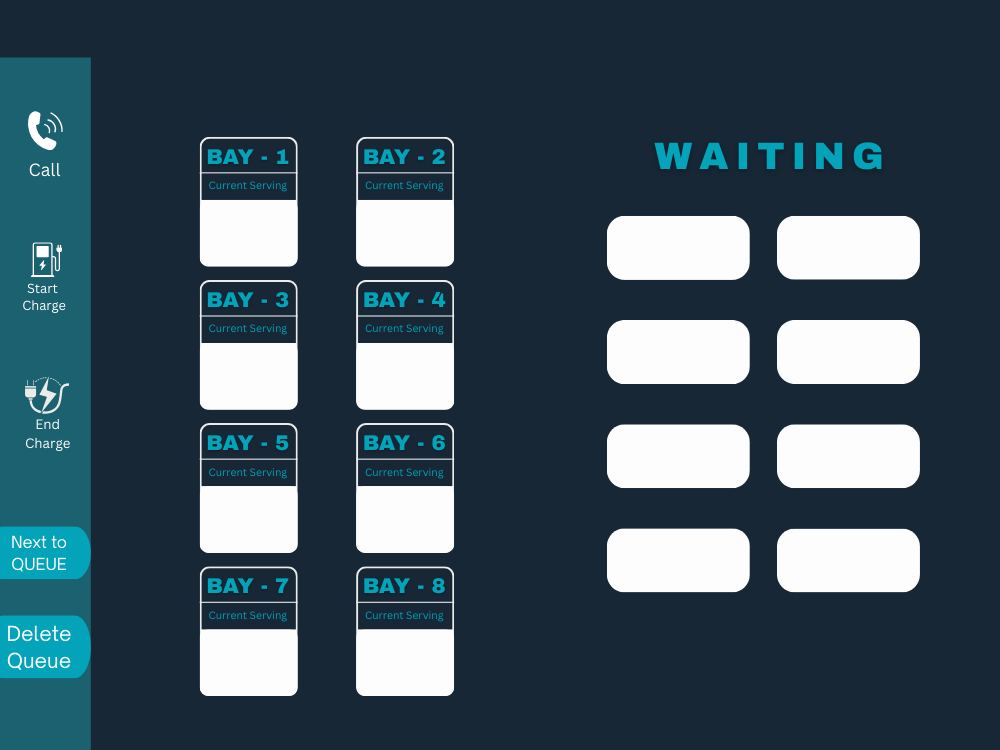
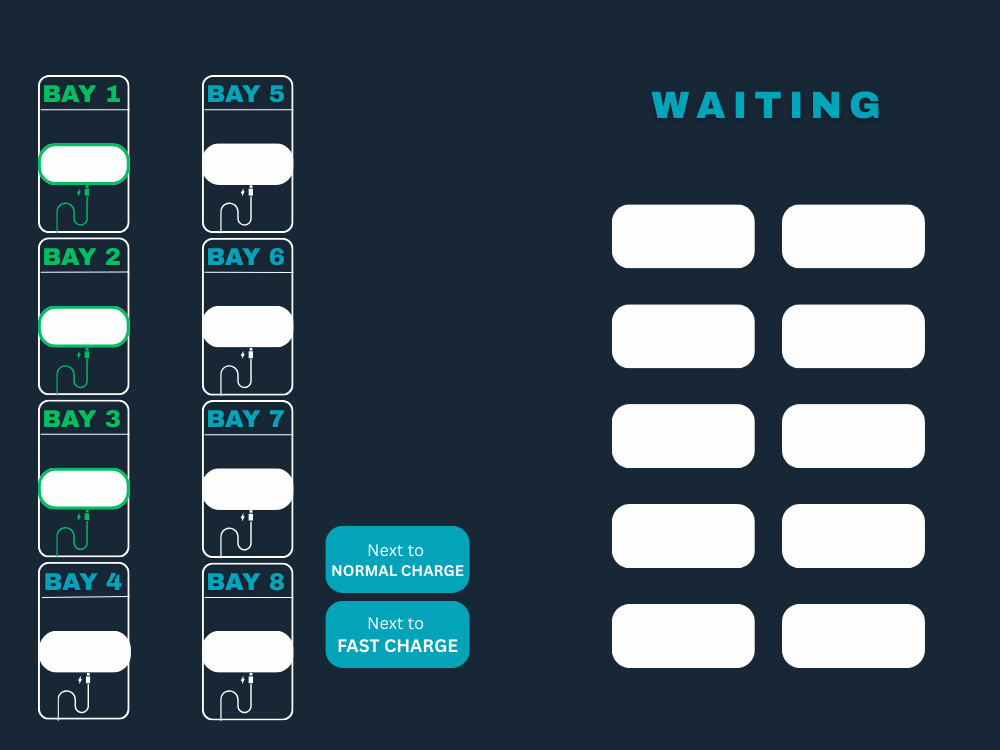
Update Queue layout and add new buttons for enhanced functionality and UI consistency

diff --git a/src/main/java/cephra/Admin/Queue.java b/src/main/java/cephra/Admin/Queue.java
@@ -142,6 +142,8 @@ public class Queue extends javax.swing.JPanel {
         B7 = new javax.swing.JLabel();
         B8 = new javax.swing.JLabel();
         jLabel1 = new javax.swing.JLabel();
+        jButton1 = new javax.swing.JButton();
+        jButton2 = new javax.swing.JButton();
         queIcon = new javax.swing.JLabel();
         MainIcon = new javax.swing.JLabel();
 
@@ -250,7 +252,7 @@ public class Queue extends javax.swing.JPanel {
         B1.setHorizontalAlignment(javax.swing.SwingConstants.CENTER);
         B1.setText("EV - 001");
         ControlPanel.add(B1);
-        B1.setBounds(200, 140, 100, 40);
+        B1.setBounds(30, 70, 100, 40);
 
         B2.setBackground(new java.awt.Color(0, 147, 73));
         B2.setFont(new java.awt.Font("Segoe UI", 1, 21)); // NOI18N
@@ -258,7 +260,7 @@ public class Queue extends javax.swing.JPanel {
         B2.setHorizontalAlignment(javax.swing.SwingConstants.CENTER);
         B2.setText("EV - 001");
         ControlPanel.add(B2);
-        B2.setBounds(355, 140, 100, 40);
+        B2.setBounds(40, 230, 100, 40);
 
         B3.setBackground(new java.awt.Color(0, 147, 73));
         B3.setFont(new java.awt.Font("Segoe UI", 1, 21)); // NOI18N
@@ -266,7 +268,7 @@ public class Queue extends javax.swing.JPanel {
         B3.setHorizontalAlignment(javax.swing.SwingConstants.CENTER);
         B3.setText("EV - 001");
         ControlPanel.add(B3);
-        B3.setBounds(200, 280, 100, 40);
+        B3.setBounds(40, 390, 100, 40);
 
         B4.setBackground(new java.awt.Color(0, 147, 73));
         B4.setFont(new java.awt.Font("Segoe UI", 1, 21)); // NOI18N
@@ -274,7 +276,7 @@ public class Queue extends javax.swing.JPanel {
         B4.setHorizontalAlignment(javax.swing.SwingConstants.CENTER);
         B4.setText("EV - 001");
         ControlPanel.add(B4);
-        B4.setBounds(355, 280, 100, 40);
+        B4.setBounds(40, 550, 100, 40);
 
         B5.setBackground(new java.awt.Color(0, 147, 73));
         B5.setFont(new java.awt.Font("Segoe UI", 1, 21)); // NOI18N
@@ -282,7 +284,7 @@ public class Queue extends javax.swing.JPanel {
         B5.setHorizontalAlignment(javax.swing.SwingConstants.CENTER);
         B5.setText("EV - 001");
         ControlPanel.add(B5);
-        B5.setBounds(200, 420, 100, 40);
+        B5.setBounds(200, 70, 100, 40);
 
         B6.setBackground(new java.awt.Color(0, 147, 73));
         B6.setFont(new java.awt.Font("Segoe UI", 1, 21)); // NOI18N
@@ -290,7 +292,7 @@ public class Queue extends javax.swing.JPanel {
         B6.setHorizontalAlignment(javax.swing.SwingConstants.CENTER);
         B6.setText("EV - 001");
         ControlPanel.add(B6);
-        B6.setBounds(355, 420, 100, 40);
+        B6.setBounds(200, 230, 100, 40);
 
         B7.setBackground(new java.awt.Color(0, 147, 73));
         B7.setFont(new java.awt.Font("Segoe UI", 1, 21)); // NOI18N
@@ -298,7 +300,7 @@ public class Queue extends javax.swing.JPanel {
         B7.setHorizontalAlignment(javax.swing.SwingConstants.CENTER);
         B7.setText("EV - 001");
         ControlPanel.add(B7);
-        B7.setBounds(200, 570, 100, 40);
+        B7.setBounds(200, 390, 100, 40);
 
         B8.setBackground(new java.awt.Color(0, 147, 73));
         B8.setFont(new java.awt.Font("Segoe UI", 1, 21)); // NOI18N
@@ -306,18 +308,28 @@ public class Queue extends javax.swing.JPanel {
         B8.setHorizontalAlignment(javax.swing.SwingConstants.CENTER);
         B8.setText("EV - 001");
         ControlPanel.add(B8);
-        B8.setBounds(355, 570, 100, 40);
+        B8.setBounds(200, 550, 100, 40);
 
         jLabel1.setFont(new java.awt.Font("Segoe UI", 1, 24)); // NOI18N
         jLabel1.setForeground(new java.awt.Color(0, 147, 73));
         jLabel1.setHorizontalAlignment(javax.swing.SwingConstants.CENTER);
         jLabel1.setText("EV - 001");
         ControlPanel.add(jLabel1);
-        jLabel1.setBounds(610, 150, 140, 50);
+        jLabel1.setBounds(610, 130, 140, 60);
+
+        jButton1.setBorderPainted(false);
+        jButton1.setContentAreaFilled(false);
+        ControlPanel.add(jButton1);
+        jButton1.setBounds(330, 450, 140, 70);
+
+        jButton2.setBorderPainted(false);
+        jButton2.setContentAreaFilled(false);
+        ControlPanel.add(jButton2);
+        jButton2.setBounds(330, 530, 140, 60);
 
         queIcon.setIcon(new javax.swing.ImageIcon(getClass().getResource("/cephra/Photos/ControlQe.png"))); // NOI18N
         ControlPanel.add(queIcon);
-        queIcon.setBounds(0, -80, 1010, 760);
+        queIcon.setBounds(0, -60, 1010, 740);
 
         jTabbedPane1.addTab("Queue Control", ControlPanel);
 
@@ -380,6 +392,8 @@ public class Queue extends javax.swing.JPanel {
     private javax.swing.JButton businessbutton;
     private javax.swing.JButton exitlogin;
     private javax.swing.JButton historybutton;
+    private javax.swing.JButton jButton1;
+    private javax.swing.JButton jButton2;
     private javax.swing.JLabel jLabel1;
     private javax.swing.JLabel jLabel2;
     private javax.swing.JLabel jLabel3;
